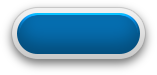
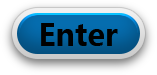
完善功能

Changed region(s): [[0.2548, 0.2933, 0.7643, 0.6133]]

diff --git a/view.cpp b/view.cpp
@@ -103,6 +103,22 @@ void show() {
     glutMainLoop();
 }
 
+void delayedVarInit(int var) {
+    if(aniWindow) {
+        for(int i = 0; i < MaxCheck; i++) CheckP[i] = new CheckPoint();
+        // 生成乘客路径点
+        genRoute();
+        for(int i = 0; i < MaxCheck; i++) {
+            aniBtnList.push_back(Button(playAndPause_normal, CPBaseX+0.06+i*CPInterval, CPBaseY+0.7, 0.06, 0.10667));
+            aniBtnList[i].corspCP = i;
+        }
+        aniBtnList.push_back(Button(gooff_normal, 0.7, -0.9, 0.3, 0.2));
+        initFinished = true;
+    } else {
+        glutTimerFunc(1, delayedVarInit, 0);
+    }
+}
+
 void drawInit() {
     // 必要的数值计算
     lmd = alp / sqdw;
@@ -112,10 +128,7 @@ void drawInit() {
     // 读取材质
     loadTexture();
 
-    for(int i = 0; i < MaxCheck; i++) CheckP[i] = new CheckPoint();
-
-    // 生成乘客路径点
-    genRoute();
+    glutTimerFunc(1, delayedVarInit, 0);
 
     // 生成按钮
     initButton();
@@ -250,7 +263,7 @@ void initButton() {
     for(int i = 0; i < 8; i++) {
         btnList.push_back(Button(arrow_right_normal, varX+nameBtnSpace+nameBtnSpace2, varY-i*varListHeight-0.01, 0.06, 0.10667));
     }
-    btnList.push_back(Button(button_normal, 0.5, -0.75, 0.2, 0.2));
+    btnList.push_back(Button(button_normal, 0.5, -0.80, 0.3, 0.23));
     btnList[0].corspVar = &MinCheck;
     btnList[1].corspVar = &MaxCheck;
     btnList[2].corspVar = &MaxCustSingleLine;
@@ -267,11 +280,6 @@ void initButton() {
     btnList[13].corspVar = &EasySeqLen;
     btnList[14].corspVar = &MaxCustCheck;
     btnList[15].corspVar = &MaxSec;
-
-    for(int i = 0; i < MaxCheck; i++) {
-        aniBtnList.push_back(Button(playAndPause_normal, CPBaseX+0.06+i*CPInterval, CPBaseY+0.7, 0.06, 0.10667));
-        aniBtnList[i].corspCP = i;
-    }
 
 
 }
@@ -361,7 +369,7 @@ void genRoute() {
     MaxCustNum = route.size();
 
     for(int i = 0; i < MaxCheck; i++) {
-        genCPRoute(-0.7 + i*0.22, -0.05);
+        genCPRoute(CPBaseX + i*CPInterval + 0.05, CPBaseY + 0.03);
     }
 
 }
@@ -543,6 +551,27 @@ void loadTexture() {
 
     texId[playAndPause_pressed] = SOIL_load_OGL_texture(
         ".\\source\\playAndPause_pressed.png",
+        SOIL_LOAD_AUTO,
+        SOIL_CREATE_NEW_ID,
+        SOIL_FLAG_MIPMAPS | SOIL_FLAG_INVERT_Y | SOIL_FLAG_NTSC_SAFE_RGB
+    );
+
+    texId[gooff_normal] = SOIL_load_OGL_texture(
+        ".\\source\\gooff_normal.png",
+        SOIL_LOAD_AUTO,
+        SOIL_CREATE_NEW_ID,
+        SOIL_FLAG_MIPMAPS | SOIL_FLAG_INVERT_Y | SOIL_FLAG_NTSC_SAFE_RGB
+    );
+
+    texId[gooff_hover] = SOIL_load_OGL_texture(
+        ".\\source\\gooff_hover.png",
+        SOIL_LOAD_AUTO,
+        SOIL_CREATE_NEW_ID,
+        SOIL_FLAG_MIPMAPS | SOIL_FLAG_INVERT_Y | SOIL_FLAG_NTSC_SAFE_RGB
+    );
+
+    texId[gooff_pressed] = SOIL_load_OGL_texture(
+        ".\\source\\gooff_pressed.png",
         SOIL_LOAD_AUTO,
         SOIL_CREATE_NEW_ID,
         SOIL_FLAG_MIPMAPS | SOIL_FLAG_INVERT_Y | SOIL_FLAG_NTSC_SAFE_RGB

diff --git a/checkpoint.cpp b/checkpoint.cpp
@@ -10,8 +10,9 @@
 using namespace std;
 
 int CheckPoint::num = 0;
-float CPInterval = 0.22;
-float CPBaseX = -0.8, CPBaseY = -0.05;
+float CPInterval = 0.15;
+float CPBaseX = -0.70, CPBaseY = -0.15;
+float CPWidth = 0.135, CPHeight = 0.35;
 
 void CheckPoint::start() {
     if(state != offDuty) {
@@ -31,7 +32,7 @@ void CheckPoint::toPause(time_t pauseTime)
 	{
 		state = pause;
 		nextPopTime += pauseTime;
-		pauseEndTime = getTime() + pauseTime*2;
+		pauseEndTime = getTime() + pauseTime*10;
 	}
 }
 
@@ -47,11 +48,12 @@ void CheckPoint::refreshNum() {
 	if (state == pause&&getTime() > pauseEndTime)
 	{
 		state = onDuty;
-	}
-    if(!isempty()&&getTime()>nextPopTime) {
-        popPassenger();
-        for(int i = front; i != rear; i = (i+1)%500)
+	} else if(state == onDuty) {
+        if(!isempty()&&getTime()>nextPopTime) {
+            popPassenger();
+            for(int i = front; i != rear; i = (i+1)%500)
             q[i].routeId--;
+        }
     }
 }
 
@@ -80,7 +82,7 @@ void CheckPoint::addPassenger(Passenger p) {
 
 CheckPoint::CheckPoint() {
     id = num++;
-    width = 0.175; height = 0.5;
+    width = CPWidth; height = CPHeight;
     texId = ::texId[_checkPoint];
     pos.x = CPBaseX + id*CPInterval;
     pos.y = CPBaseY;

diff --git a/globalvar.h b/globalvar.h
@@ -19,6 +19,7 @@ extern int MaxCustNum;
 extern int curFreeRtp;
 // 打开动画
 extern bool aniWindow;
+extern bool initFinished;
 
 extern SerpQueue SerpQ;
 
@@ -31,7 +32,8 @@ typedef enum textureName
     arrow_right_normal, arrow_right_hover, arrow_right_pressed,
     button_normal, button_hover, button_pressed,
     initbg, anibg, CPblock, CPpause,
-    playAndPause_normal, playAndPause_hover, playAndPause_pressed
+    playAndPause_normal, playAndPause_hover, playAndPause_pressed,
+    gooff_normal, gooff_hover, gooff_pressed
 }texName;
 
 typedef enum checkPointState

diff --git a/function.cpp b/function.cpp
@@ -23,7 +23,7 @@ void readSettingFile()
 {
     std::ifstream fin("para.dat",std::ios::binary);
     int *a=new int[10];
-    fin.read((char *)a,sizeof(a));
+    fin.read((char *)a,sizeof(a)*8);
     MinCheck=a[0];
     MaxCheck=a[1];
     MaxCustSingleLine=a[2];
@@ -48,7 +48,7 @@ void writeSettingFile()
     a[5]=EasySeqLen;
     a[6]=MaxCustCheck;
     a[7]=MaxSec;
-    fout.write((char *)a,sizeof(a));
+    fout.write((char *)a,sizeof(a)*8);
     fout.close();
     delete a;
 }

diff --git a/button.cpp b/button.cpp
@@ -43,6 +43,8 @@ void Button::mouseClick(int btn, int state, int x, int y) {
             writeSettingFile();
         } else if(texId == ::texId[playAndPause_normal] + 2) {
 			switchCheckPointState(CheckP, corspCP);
+        } else if(texId == ::texId[gooff_normal] + 2) {
+            programEnd(CheckP, corspCP);
         }
     }
 }

diff --git a/demo.cpp b/demo.cpp
@@ -34,8 +34,8 @@ int main(int argc, char *argv[])
 {
 	thread t1(show);
 	t1.detach();
-	//readSettingFile();
-	while (!aniWindow);
+	readSettingFile();
+	while (!initFinished);
 	run();
 	return 0;
 }

diff --git a/globalvar.cpp b/globalvar.cpp
@@ -20,6 +20,7 @@ int MaxCustNum;
 int curFreeRtp = 0;
 // 打开动画
 bool aniWindow = false;
+bool initFinished = false;
 
 SerpQueue SerpQ;
 
